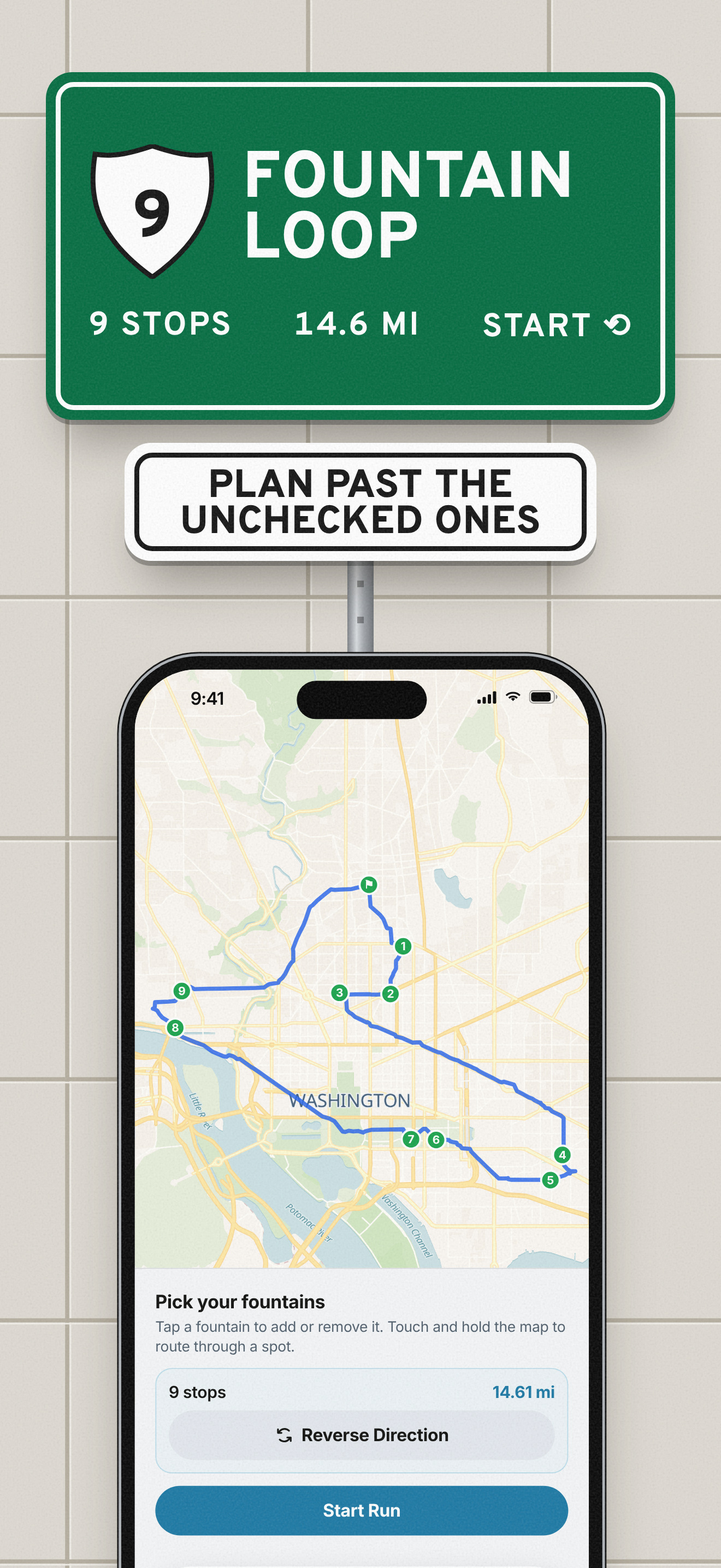
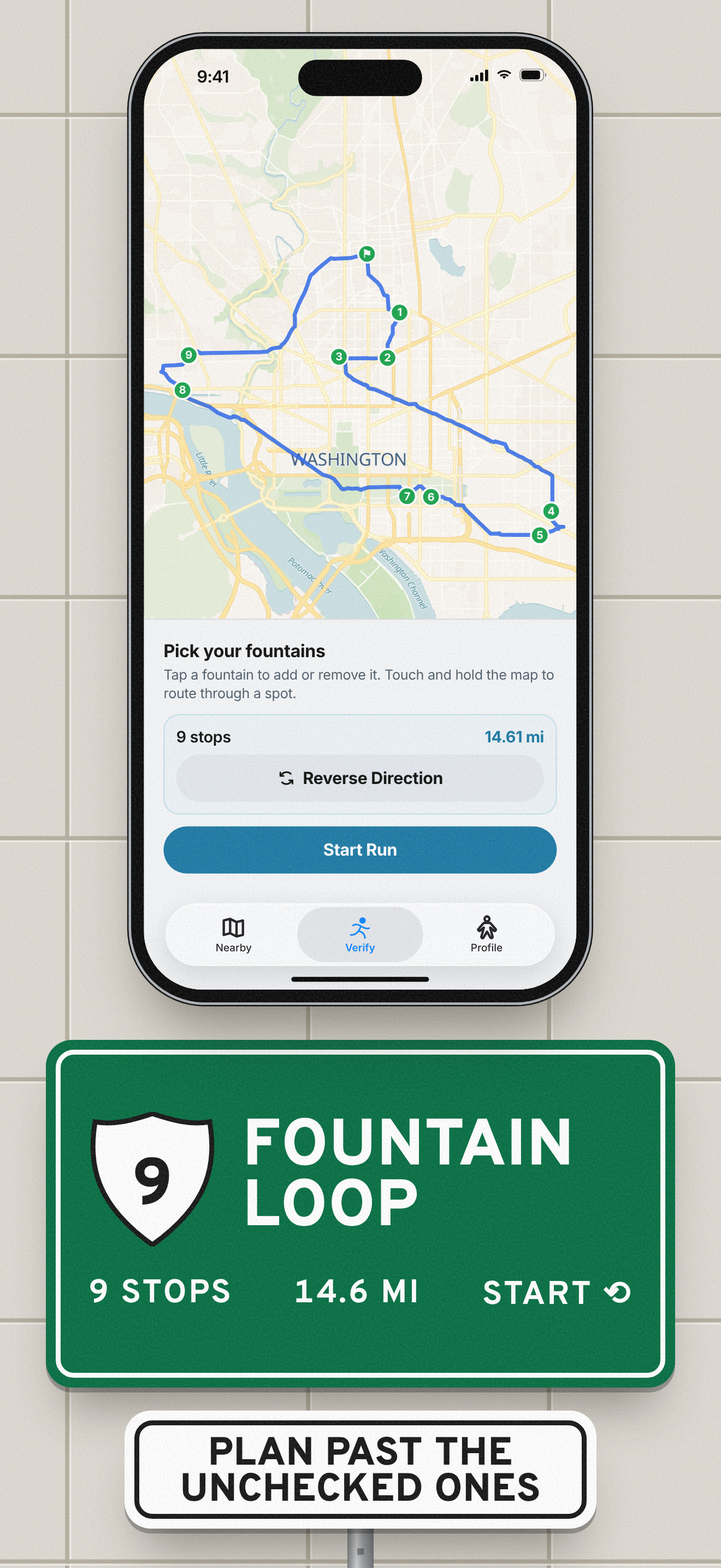
feat(marketing): stand Public Works' signs below the phones
The signs used to sit above each phone with their posts running down
behind it, which read as signs growing out of the handsets. Each frame is
now the phone up top and the sign planted on its post below it, as a sign
stands on a sidewalk. The sign assembly and the phone are placed as two
layers, and ?layout=under-big (a larger phone off the top edge) or
?layout=over (the old arrangement) render the alternatives.

Claude-Session: https://claude.ai/code/session_01A6NDPjtjuAxZPuc27tkg3H

diff --git a/marketing/app-store/src/public-works.html b/marketing/app-store/src/public-works.html
@@ -135,14 +135,32 @@
         `<div class="bolt" style="top:${top}px"></div><div class="bolt" style="bottom:${bottom}px"></div>`;
       const plaque = (html, style) =>
         `<div class="sign" style="background:#fff;color:#111;${style}">${html}</div>`;
+      // Where the signs stand relative to the phone. "under" (the default): the
+      // phone up top, each sign planted on its post below it, the way a sign
+      // stands on a sidewalk. "under-big": the same with a larger phone that
+      // runs off the top edge. "over": signs above, the phone below them.
+      // Pick one with ?layout=…
+      const LAYOUTS = {
+        under: { phone: { x: 80, y: 22, scale: 0.6 }, signs: 590, logo: [352, 840] },
+        "under-big": { phone: { x: 66, y: -46, scale: 0.66 }, signs: 586, logo: [352, 836] },
+        over: { phone: null, signs: 0, logo: [352, 250] },
+      };
+      const L = LAYOUTS[new URLSearchParams(location.search).get("layout")] ?? LAYOUTS.under;
+      // The phone marks its own markup, so each frame can be split into the
+      // sign assembly and the phone, and the two placed independently.
+      const MARK = "\u0000";
       const phone = (screen, y = 392) =>
+        MARK +
         device(screen, {
-          x: 74,
-          y,
-          scale: 0.63,
+          ...(L.phone ?? { x: 74, y, scale: 0.63 }),
           edge: "#aeb3b8",
           glow: "0 40px 60px -20px rgba(40,34,24,.55)",
-        });
+        }) +
+        MARK;
+      const compose = (f) => {
+        const [before, handset, after] = f.split(MARK);
+        return `<div style="position:absolute;inset:0;transform:translateY(${L.signs}px)">${before}${after}</div>${handset}`;
+      };
 
       const frames = [
         // 1 — the service sign
@@ -222,7 +240,7 @@
       ];
 
       // Sidewalk: slab joints running the whole panorama, and the logo chalked on
-      // a slab beside the first sign.
+      // a slab beside the first sign's plaque.
       const slab = 147;
       const joints = `
   <svg class="layer" viewBox="0 0 2640 956" style="z-index:1">
@@ -232,8 +250,8 @@
 
       document.body.innerHTML = `${defs()}
   ${joints}
-  <img src="../assets/logo-ink.png" style="position:absolute;left:352px;top:250px;width:78px;z-index:2;mix-blend-mode:multiply;opacity:.78;transform:rotate(-9deg);filter:url(#brush)">
-  ${frames.map((f, i) => `<section class="frame" style="left:${i * 440}px;z-index:3">${f}</section>`).join("")}
+  <img src="../assets/logo-ink.png" style="position:absolute;left:${L.logo[0]}px;top:${L.logo[1]}px;width:78px;z-index:2;mix-blend-mode:multiply;opacity:.78;transform:rotate(-9deg);filter:url(#brush)">
+  ${frames.map((f, i) => `<section class="frame" style="left:${i * 440}px;z-index:3">${compose(f)}</section>`).join("")}
   <div class="layer" style="z-index:9;pointer-events:none">${grain(0.3).replace('viewBox="0 0 440 956"', 'viewBox="0 0 2640 956"').replace('<rect width="440"', '<rect width="2640"')}</div>`;
       await document.fonts.ready;
       await Promise.all([...document.images].map((i) => i.decode()));

diff --git a/marketing/app-store/README.md b/marketing/app-store/README.md
@@ -89,6 +89,10 @@ npm run shots                          # the three screenshot sets
 npm run video                          # the film (scored by scripts/score.py)
 ```
 
+Public Works plants each sign on its post below the phone. Add `?layout=under-big`
+(a larger phone running off the top edge) or `?layout=over` (signs above the
+phone) to `src/public-works.html` to see the alternatives.
+
 Open `src/screens-preview.html`, `src/field-notes.html`, `src/night-shift.html`,
 `src/public-works.html` or `src/film.html` through any static server rooted at this
 folder to work on a page live.
